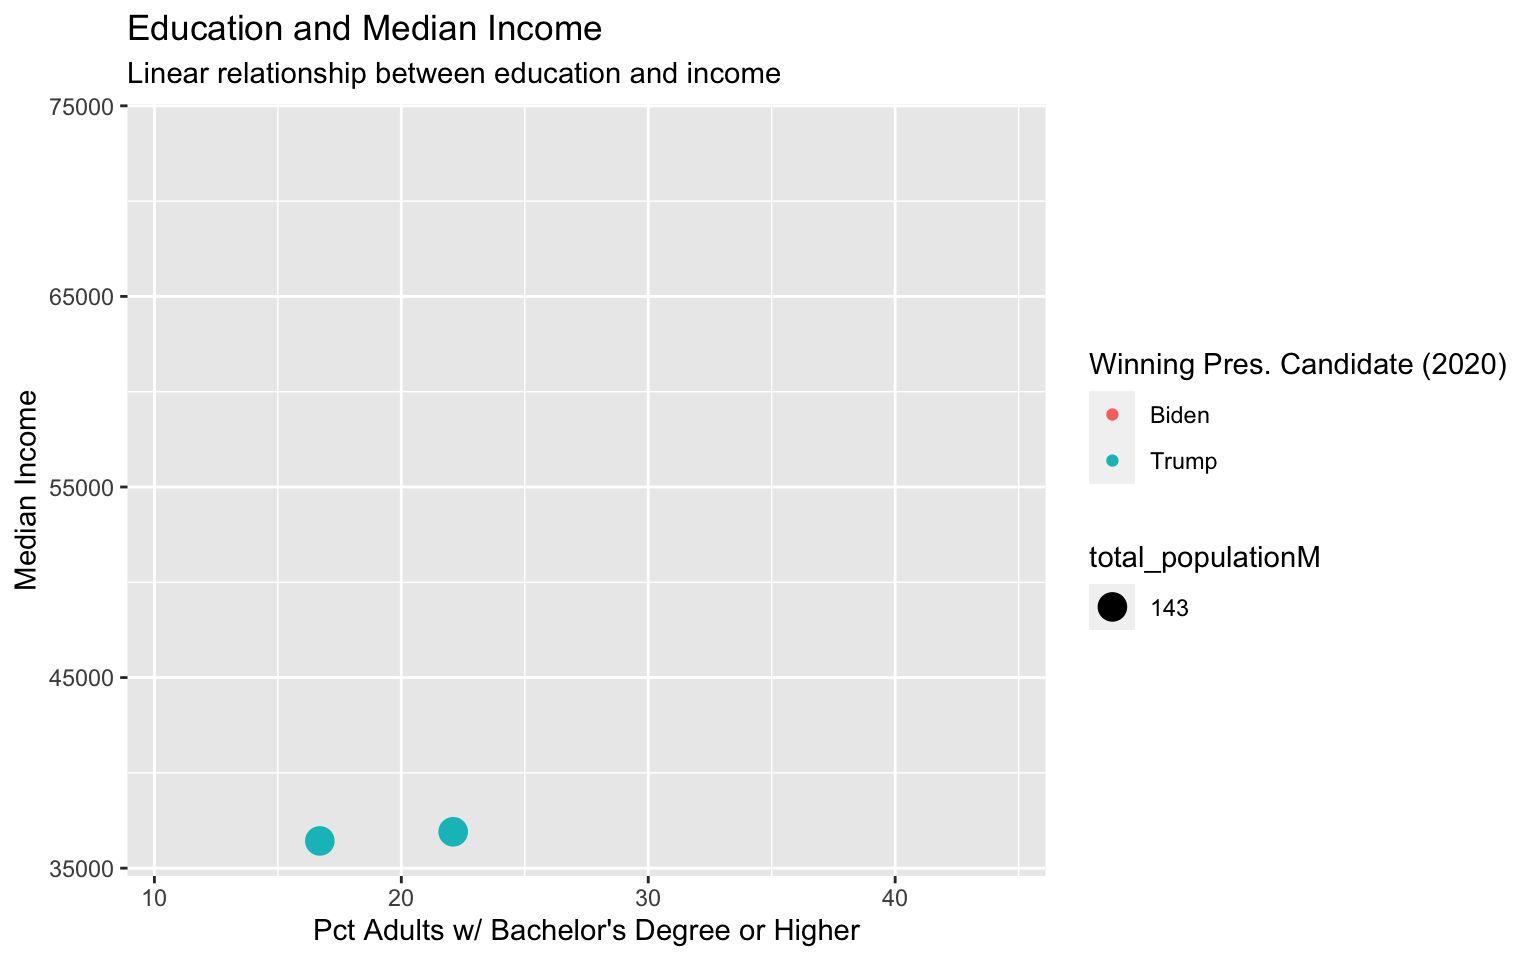
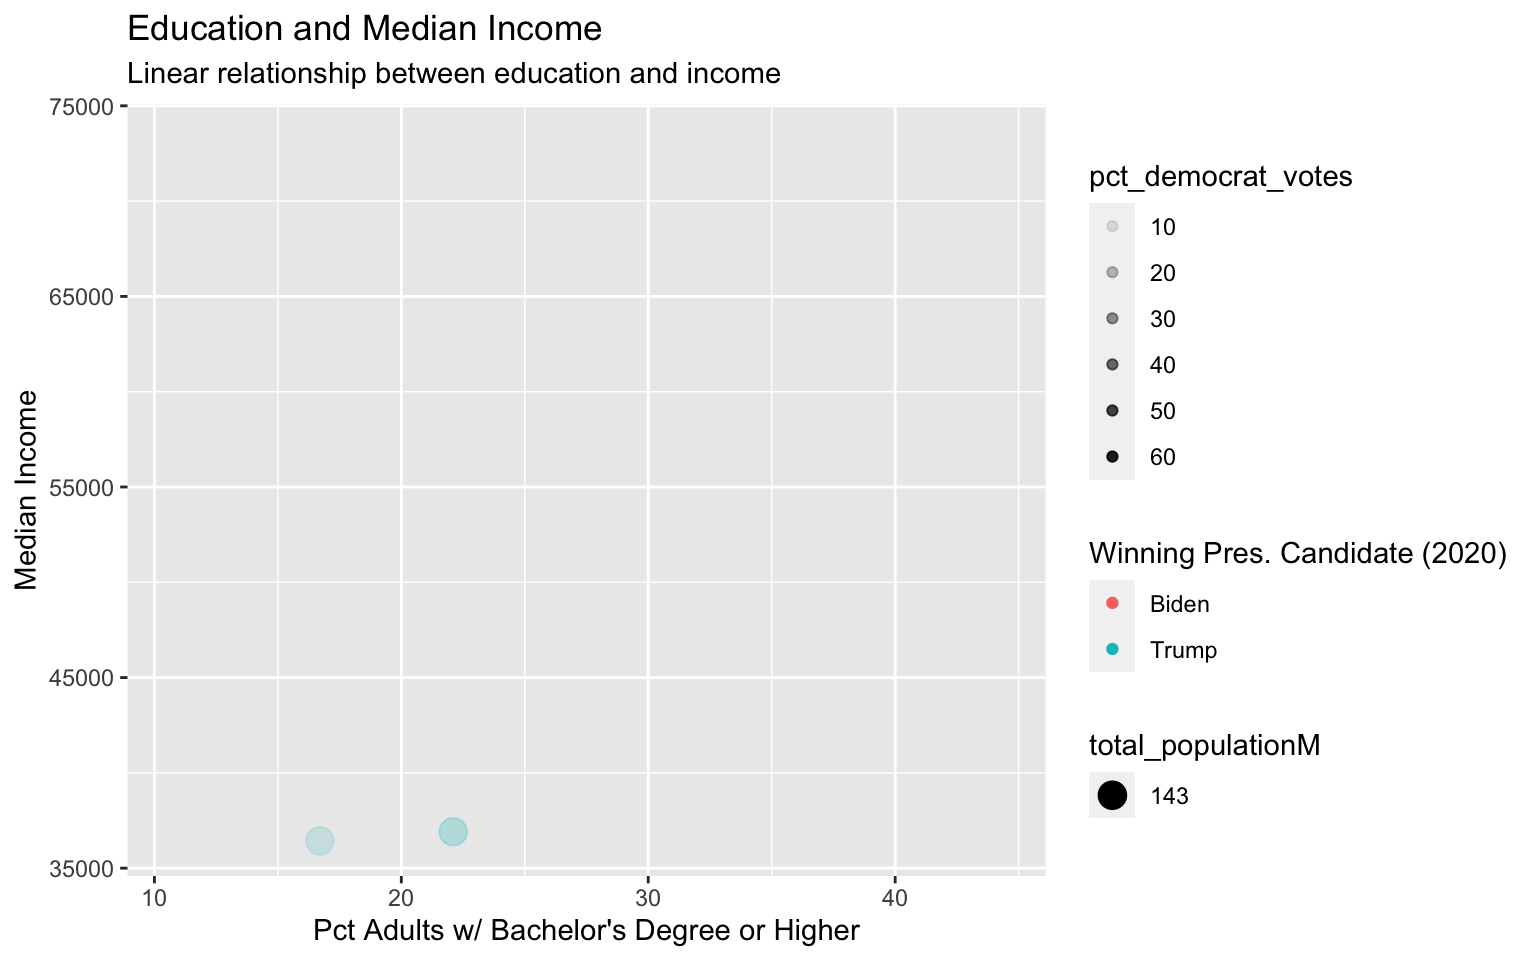
Fixed slides

diff --git a/docs/lectures/lecture05/lecture05.html b/docs/lectures/lecture05/lecture05.html
@@ -392,6 +392,32 @@
 </section>
 
 <section>
+<section id="data-visualization-review" class="title-slide slide level1 center">
+<h1>Data Visualization Review</h1>
+
+</section>
+<section id="grammar-of-graphics" class="slide level2">
+<h2>Grammar of Graphics</h2>
+<ul>
+<li>A grammar of graphics is a tool that enables us to concisely describe the components of a graphic</li>
+<li>A statistical graphic is a <code>mapping</code> of <code>data</code> variables to <code>aes</code>thetic attributes of <code>geom</code>etric objects. # ggplot Review</li>
+</ul>
+</section>
+<section id="anatomy-of-a-ggplot" class="slide level2">
+<h2>Anatomy of a ggplot</h2>
+<ul>
+<li><p><code>ggplot()</code> is the main function in ggplot2</p></li>
+<li><p>Plots are constructed in layers</p></li>
+<li><p>Structure of the code for plots can be summarized as</p></li>
+</ul>
+<div class="cell">
+
+</div>
+<ul>
+<li>For help with ggplot2, see <a href="http://ggplot2.tidyverse.org/">ggplot2.tidyverse.org</a></li>
+</ul>
+</section></section>
+<section>
 <section id="application-county-demographics-and-voting-data" class="title-slide slide level1 center">
 <h1>Application: County Demographics and Voting Data</h1>
 <div class="cell">
@@ -462,7 +488,7 @@ $ win_candidate         &lt;chr&gt; "Trump", "Trump", "Trump", "Trump", "Trump",
 <div id="tabset-1-2">
 <div class="cell">
 <div class="cell-output-display">
-<p><img data-src="lecture05_files/figure-revealjs/unnamed-chunk-6-1.png" style="width:70.0%"></p>
+<p><img data-src="lecture05_files/figure-revealjs/unnamed-chunk-7-1.png" style="width:70.0%"></p>
 </div>
 </div>
 </div>
@@ -480,7 +506,7 @@ $ win_candidate         &lt;chr&gt; "Trump", "Trump", "Trump", "Trump", "Trump",
 </div><div class="column" style="width:50%;">
 <div class="cell">
 <div class="cell-output-display">
-<p><img data-src="lecture05_files/figure-revealjs/unnamed-chunk-7-1.png" style="width:100.0%"></p>
+<p><img data-src="lecture05_files/figure-revealjs/unnamed-chunk-8-1.png" style="width:100.0%"></p>
 </div>
 </div>
 </div>
@@ -498,7 +524,7 @@ $ win_candidate         &lt;chr&gt; "Trump", "Trump", "Trump", "Trump", "Trump",
 </div><div class="column" style="width:40%;">
 <div class="cell">
 <div class="cell-output-display">
-<p><img data-src="lecture05_files/figure-revealjs/unnamed-chunk-8-1.png" style="width:100.0%"></p>
+<p><img data-src="lecture05_files/figure-revealjs/unnamed-chunk-9-1.png" style="width:100.0%"></p>
 </div>
 </div>
 </div>
@@ -517,7 +543,7 @@ $ win_candidate         &lt;chr&gt; "Trump", "Trump", "Trump", "Trump", "Trump",
 </div><div class="column" style="width:40%;">
 <div class="cell">
 <div class="cell-output-display">
-<p><img data-src="lecture05_files/figure-revealjs/unnamed-chunk-9-1.png" style="width:100.0%"></p>
+<p><img data-src="lecture05_files/figure-revealjs/unnamed-chunk-10-1.png" style="width:100.0%"></p>
 </div>
 </div>
 </div>
@@ -537,7 +563,7 @@ $ win_candidate         &lt;chr&gt; "Trump", "Trump", "Trump", "Trump", "Trump",
 </div><div class="column" style="width:40%;">
 <div class="cell">
 <div class="cell-output-display">
-<p><img data-src="lecture05_files/figure-revealjs/unnamed-chunk-10-1.png" style="width:100.0%"></p>
+<p><img data-src="lecture05_files/figure-revealjs/unnamed-chunk-11-1.png" style="width:100.0%"></p>
 </div>
 </div>
 </div>
@@ -558,7 +584,7 @@ $ win_candidate         &lt;chr&gt; "Trump", "Trump", "Trump", "Trump", "Trump",
 </div><div class="column" style="width:40%;">
 <div class="cell">
 <div class="cell-output-display">
-<p><img data-src="lecture05_files/figure-revealjs/unnamed-chunk-11-1.png" style="width:100.0%"></p>
+<p><img data-src="lecture05_files/figure-revealjs/unnamed-chunk-12-1.png" style="width:100.0%"></p>
 </div>
 </div>
 </div>
@@ -579,7 +605,7 @@ $ win_candidate         &lt;chr&gt; "Trump", "Trump", "Trump", "Trump", "Trump",
 </div><div class="column" style="width:40%;">
 <div class="cell">
 <div class="cell-output-display">
-<p><img data-src="lecture05_files/figure-revealjs/unnamed-chunk-12-1.png" style="width:100.0%"></p>
+<p><img data-src="lecture05_files/figure-revealjs/unnamed-chunk-13-1.png" style="width:100.0%"></p>
 </div>
 </div>
 </div>
@@ -601,7 +627,7 @@ $ win_candidate         &lt;chr&gt; "Trump", "Trump", "Trump", "Trump", "Trump",
 </div><div class="column" style="width:40%;">
 <div class="cell">
 <div class="cell-output-display">
-<p><img data-src="lecture05_files/figure-revealjs/unnamed-chunk-13-1.png" style="width:100.0%"></p>
+<p><img data-src="lecture05_files/figure-revealjs/unnamed-chunk-14-1.png" style="width:100.0%"></p>
 </div>
 </div>
 </div>
@@ -625,7 +651,7 @@ $ win_candidate         &lt;chr&gt; "Trump", "Trump", "Trump", "Trump", "Trump",
 </div><div class="column" style="width:40%;">
 <div class="cell">
 <div class="cell-output-display">
-<p><img data-src="lecture05_files/figure-revealjs/unnamed-chunk-14-1.png" style="width:100.0%"></p>
+<p><img data-src="lecture05_files/figure-revealjs/unnamed-chunk-15-1.png" style="width:100.0%"></p>
 </div>
 </div>
 </div>
@@ -650,7 +676,7 @@ $ win_candidate         &lt;chr&gt; "Trump", "Trump", "Trump", "Trump", "Trump",
 </div><div class="column" style="width:40%;">
 <div class="cell">
 <div class="cell-output-display">
-<p><img data-src="lecture05_files/figure-revealjs/unnamed-chunk-15-1.png" style="width:100.0%"></p>
+<p><img data-src="lecture05_files/figure-revealjs/unnamed-chunk-16-1.png" style="width:100.0%"></p>
 </div>
 </div>
 </div>
@@ -676,7 +702,7 @@ $ win_candidate         &lt;chr&gt; "Trump", "Trump", "Trump", "Trump", "Trump",
 </div><div class="column" style="width:40%;">
 <div class="cell">
 <div class="cell-output-display">
-<p><img data-src="lecture05_files/figure-revealjs/unnamed-chunk-16-1.png" style="width:100.0%"></p>
+<p><img data-src="lecture05_files/figure-revealjs/unnamed-chunk-17-1.png" style="width:100.0%"></p>
 </div>
 </div>
 </div>
@@ -750,7 +776,7 @@ $ win_candidate         &lt;chr&gt; "Trump", "Trump", "Trump", "Trump", "Trump",
 <div class="column" style="width:40%;">
 <div class="cell">
 <div class="cell-output-display">
-<p><img data-src="lecture05_files/figure-revealjs/unnamed-chunk-17-1.png" style="width:100.0%"></p>
+<p><img data-src="lecture05_files/figure-revealjs/unnamed-chunk-18-1.png" style="width:100.0%"></p>
 </div>
 </div>
 </div>
@@ -773,7 +799,7 @@ $ win_candidate         &lt;chr&gt; "Trump", "Trump", "Trump", "Trump", "Trump",
 <div class="column" style="width:40%;">
 <div class="cell">
 <div class="cell-output-display">
-<p><img data-src="lecture05_files/figure-revealjs/unnamed-chunk-18-1.png" style="width:100.0%"></p>
+<p><img data-src="lecture05_files/figure-revealjs/unnamed-chunk-19-1.png" style="width:100.0%"></p>
 </div>
 </div>
 </div>
@@ -798,7 +824,7 @@ $ win_candidate         &lt;chr&gt; "Trump", "Trump", "Trump", "Trump", "Trump",
 <div class="column" style="width:40%;">
 <div class="cell">
 <div class="cell-output-display">
-<p><img data-src="lecture05_files/figure-revealjs/unnamed-chunk-19-1.png" style="width:100.0%"></p>
+<p><img data-src="lecture05_files/figure-revealjs/unnamed-chunk-20-1.png" style="width:100.0%"></p>
 </div>
 </div>
 </div>
@@ -822,7 +848,7 @@ $ win_candidate         &lt;chr&gt; "Trump", "Trump", "Trump", "Trump", "Trump",
 <div class="column" style="width:40%;">
 <div class="cell">
 <div class="cell-output-display">
-<p><img data-src="lecture05_files/figure-revealjs/unnamed-chunk-20-1.png" style="width:100.0%"></p>
+<p><img data-src="lecture05_files/figure-revealjs/unnamed-chunk-21-1.png" style="width:100.0%"></p>
 </div>
 </div>
 </div>
@@ -845,6 +871,8 @@ $ win_candidate         &lt;chr&gt; "Trump", "Trump", "Trump", "Trump", "Trump",
   |                                                                            
   |==                                                                    |   3%
   |                                                                            
+  |==                                                                    |   4%
+  |                                                                            
   |===                                                                   |   4%
   |                                                                            
   |===                                                                   |   5%
@@ -852,6 +880,8 @@ $ win_candidate         &lt;chr&gt; "Trump", "Trump", "Trump", "Trump", "Trump",
   |====                                                                  |   5%
   |                                                                            
   |====                                                                  |   6%
+  |                                                                            
+  |=====                                                                 |   6%
   |                                                                            
   |=====                                                                 |   7%
   |                                                                            
@@ -877,24 +907,6 @@ $ win_candidate         &lt;chr&gt; "Trump", "Trump", "Trump", "Trump", "Trump",
   |                                                                            
   |==========                                                            |  14%
   |                                                                            
-  |==========                                                            |  15%
-  |                                                                            
-  |===========                                                           |  15%
-  |                                                                            
-  |===========                                                           |  16%
-  |                                                                            
-  |============                                                          |  16%
-  |                                                                            
-  |============                                                          |  17%
-  |                                                                            
-  |============                                                          |  18%
-  |                                                                            
-  |=============                                                         |  18%
-  |                                                                            
-  |=============                                                         |  19%
-  |                                                                            
-  |==============                                                        |  19%
-  |                                                                            
   |==============                                                        |  20%
   |                                                                            
   |==============                                                        |  21%
@@ -909,7 +921,7 @@ $ win_candidate         &lt;chr&gt; "Trump", "Trump", "Trump", "Trump", "Trump",
   |                                                                            
   |================                                                      |  24%
   |                                                                            
-  |=================                                                     |  24%
+  |=================                                                     |  25%
   |                                                                            
   |==================                                                    |  25%
   |                                                                            
@@ -927,25 +939,7 @@ $ win_candidate         &lt;chr&gt; "Trump", "Trump", "Trump", "Trump", "Trump",
   |                                                                            
   |=====================                                                 |  30%
   |                                                                            
-  |=====================                                                 |  31%
-  |                                                                            
-  |======================                                                |  31%
-  |                                                                            
-  |======================                                                |  32%
-  |                                                                            
-  |=======================                                               |  32%
-  |                                                                            
-  |=======================                                               |  33%
-  |                                                                            
-  |========================                                              |  34%
-  |                                                                            
-  |========================                                              |  35%
-  |                                                                            
-  |=========================                                             |  35%
-  |                                                                            
   |=========================                                             |  36%
-  |                                                                            
-  |==========================                                            |  36%
   |                                                                            
   |==========================                                            |  37%
   |                                                                            
@@ -967,8 +961,6 @@ $ win_candidate         &lt;chr&gt; "Trump", "Trump", "Trump", "Trump", "Trump",
   |                                                                            
   |==============================                                        |  43%
   |                                                                            
-  |==============================                                        |  44%
-  |                                                                            
   |===============================                                       |  44%
   |                                                                            
   |===============================                                       |  45%
@@ -977,6 +969,8 @@ $ win_candidate         &lt;chr&gt; "Trump", "Trump", "Trump", "Trump", "Trump",
   |                                                                            
   |================================                                      |  46%
   |                                                                            
+  |=================================                                     |  46%
+  |                                                                            
   |=================================                                     |  47%
   |                                                                            
   |=================================                                     |  48%
@@ -984,6 +978,16 @@ $ win_candidate         &lt;chr&gt; "Trump", "Trump", "Trump", "Trump", "Trump",
   |==================================                                    |  48%
   |                                                                            
   |==================================                                    |  49%
+  |                                                                            
+  |===================================                                   |  49%
+  |                                                                            
+  |===================================                                   |  50%
+  |                                                                            
+  |===================================                                   |  51%
+  |                                                                            
+  |====================================                                  |  51%
+  |                                                                            
+  |====================================                                  |  52%
   |                                                                            
   |=====================================                                 |  53%
   |                                                                            
@@ -1011,15 +1015,13 @@ $ win_candidate         &lt;chr&gt; "Trump", "Trump", "Trump", "Trump", "Trump",
   |                                                                            
   |==========================================                            |  60%
   |                                                                            
-  |==========================================                            |  61%
-  |                                                                            
   |===========================================                           |  61%
-  |                                                                            
-  |===========================================                           |  62%
   |                                                                            
   |============================================                          |  62%
   |                                                                            
   |============================================                          |  63%
+  |                                                                            
+  |=============================================                         |  64%
   |                                                                            
   |=============================================                         |  65%
   |                                                                            
@@ -1028,8 +1030,6 @@ $ win_candidate         &lt;chr&gt; "Trump", "Trump", "Trump", "Trump", "Trump",
   |==============================================                        |  66%
   |                                                                            
   |===============================================                       |  67%
-  |                                                                            
-  |===============================================                       |  68%
   |                                                                            
   |================================================                      |  68%
   |                                                                            
@@ -1059,21 +1059,17 @@ $ win_candidate         &lt;chr&gt; "Trump", "Trump", "Trump", "Trump", "Trump",
   |                                                                            
   |======================================================                |  77%
   |                                                                            
+  |======================================================                |  78%
+  |                                                                            
   |=======================================================               |  78%
   |                                                                            
   |=======================================================               |  79%
   |                                                                            
-  |========================================================              |  79%
-  |                                                                            
   |========================================================              |  80%
-  |                                                                            
-  |========================================================              |  81%
   |                                                                            
   |=========================================================             |  81%
   |                                                                            
   |=========================================================             |  82%
-  |                                                                            
-  |==========================================================            |  82%
   |                                                                            
   |==========================================================            |  83%
   |                                                                            
@@ -1084,8 +1080,6 @@ $ win_candidate         &lt;chr&gt; "Trump", "Trump", "Trump", "Trump", "Trump",
   |============================================================          |  85%
   |                                                                            
   |============================================================          |  86%
-  |                                                                            
-  |=============================================================         |  86%
   |                                                                            
   |=============================================================         |  87%
   |                                                                            
@@ -1099,15 +1093,13 @@ $ win_candidate         &lt;chr&gt; "Trump", "Trump", "Trump", "Trump", "Trump",
   |                                                                            
   |===============================================================       |  90%
   |                                                                            
-  |===============================================================       |  91%
-  |                                                                            
-  |================================================================      |  91%
-  |                                                                            
   |================================================================      |  92%
   |                                                                            
   |=================================================================     |  92%
   |                                                                            
   |=================================================================     |  93%
+  |                                                                            
+  |=================================================================     |  94%
   |                                                                            
   |==================================================================    |  94%
   |                                                                            
@@ -1116,8 +1108,6 @@ $ win_candidate         &lt;chr&gt; "Trump", "Trump", "Trump", "Trump", "Trump",
   |===================================================================   |  95%
   |                                                                            
   |===================================================================   |  96%
-  |                                                                            
-  |====================================================================  |  96%
   |                                                                            
   |====================================================================  |  97%
   |                                                                            
@@ -1137,7 +1127,7 @@ $ win_candidate         &lt;chr&gt; "Trump", "Trump", "Trump", "Trump", "Trump",
 <h2>Extra Stuff: Visualizing Census Data with <code>tidycensus</code></h2>
 
 
-<img data-src="lecture05_files/figure-revealjs/unnamed-chunk-22-1.png" width="960" class="r-stretch"><div class="footer footer-default">
+<img data-src="lecture05_files/figure-revealjs/unnamed-chunk-23-1.png" width="960" class="r-stretch"><div class="footer footer-default">
 
 </div>
 </section></section>
